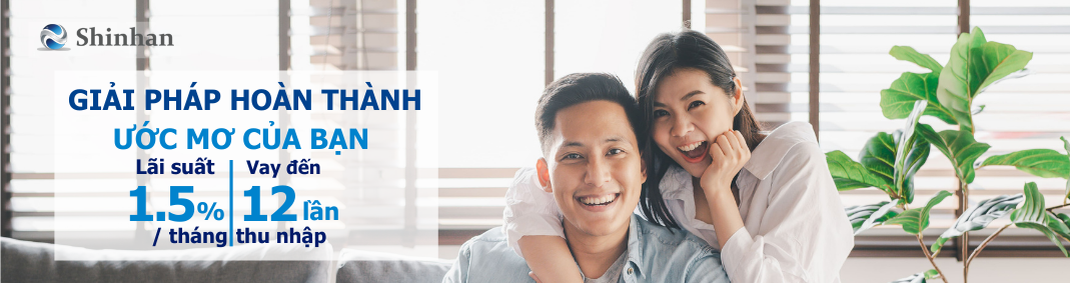
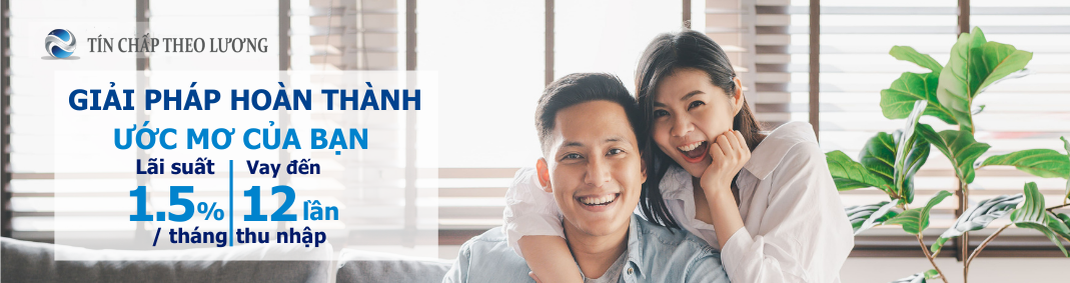
new commit

Changed region(s): [[0.0308, 0.0848, 0.2467, 0.2261]]

diff --git a/index.html b/index.html
@@ -21,9 +21,9 @@
       <div id="__next">
          <div class="detail_product__7wbcL">
             <nav class="styles_navbar__iBXHV navbar navbar-expand-lg navbar-light sticky-top">
-               <a href="/" class="styles_logo__KwRGz navbar-brand">
+               <a href="/" class="">
                   <picture>
-                     <img style="width: 150px; height: 33px;" src="./assets/img/logo2.png" alt="Logo"/>
+                     <img style="width: 250px; height: 33px;" src="./assets/img/logo2.png" class="logoB" alt="Logo"/>
                   </picture>
                </a>
                <div class="styles_wrapper__VaRQx">
@@ -288,7 +288,7 @@
                               <div class="ant-collapse-header" role="button" tabindex="0" aria-expanded="false">
                                  <i class="fas fa-minus" style="position: absolute; top: 15px; right: 0px;"></i>
                      
-                                 1. Làm thế nào để Quý khách đăng ký khoản vay tín chấp với Shinhan?
+                                 1. Làm thế nào để Quý khách đăng ký khoản vay tín chấp với <strong>Tín Chấp Theo Lương</strong>?
                                  <div class="ant-collapse-content-box">
                                     <div class="styles_freeText__3ShXs">
                                        <br>Đăng ký trực tuyến tại <a href="https://tinchaptheoluong.info/">https://tinchaptheoluong.info/</a> bằng cách chọn mục <strong>“Đăng ký vay ngay” </strong>trên trang chủ. Sau đó Quý khách nhấn nút <strong>“Ước tính khoản vay”</strong>
@@ -306,7 +306,7 @@
                               <div class="ant-collapse-header" role="button" tabindex="0" aria-expanded="false">
                                  <i class="fas fa-minus" style="position: absolute; top: 15px; right: 0px;"></i>
                      
-                                 2. Cách tính tiền lãi vay tín chấp của Shinhan ?
+                                 2. Cách tính tiền lãi vay tín chấp của <strong>Tín Chấp Theo Lương</strong> ?
                                  <div class="ant-collapse-content ant-collapse-content-active" style="">
                                     <div class="ant-collapse-content-box">
                                       <div class="styles_freeText__3ShXs">

diff --git a/assets/css/styles.css b/assets/css/styles.css
@@ -258,6 +258,12 @@ a.popup-close {
     height: auto;
     overflow: hidden;
   }
+  .logoB{
+    width: 160px !important;
+    height: 15px;
+
+  }
+
 }
 
 
